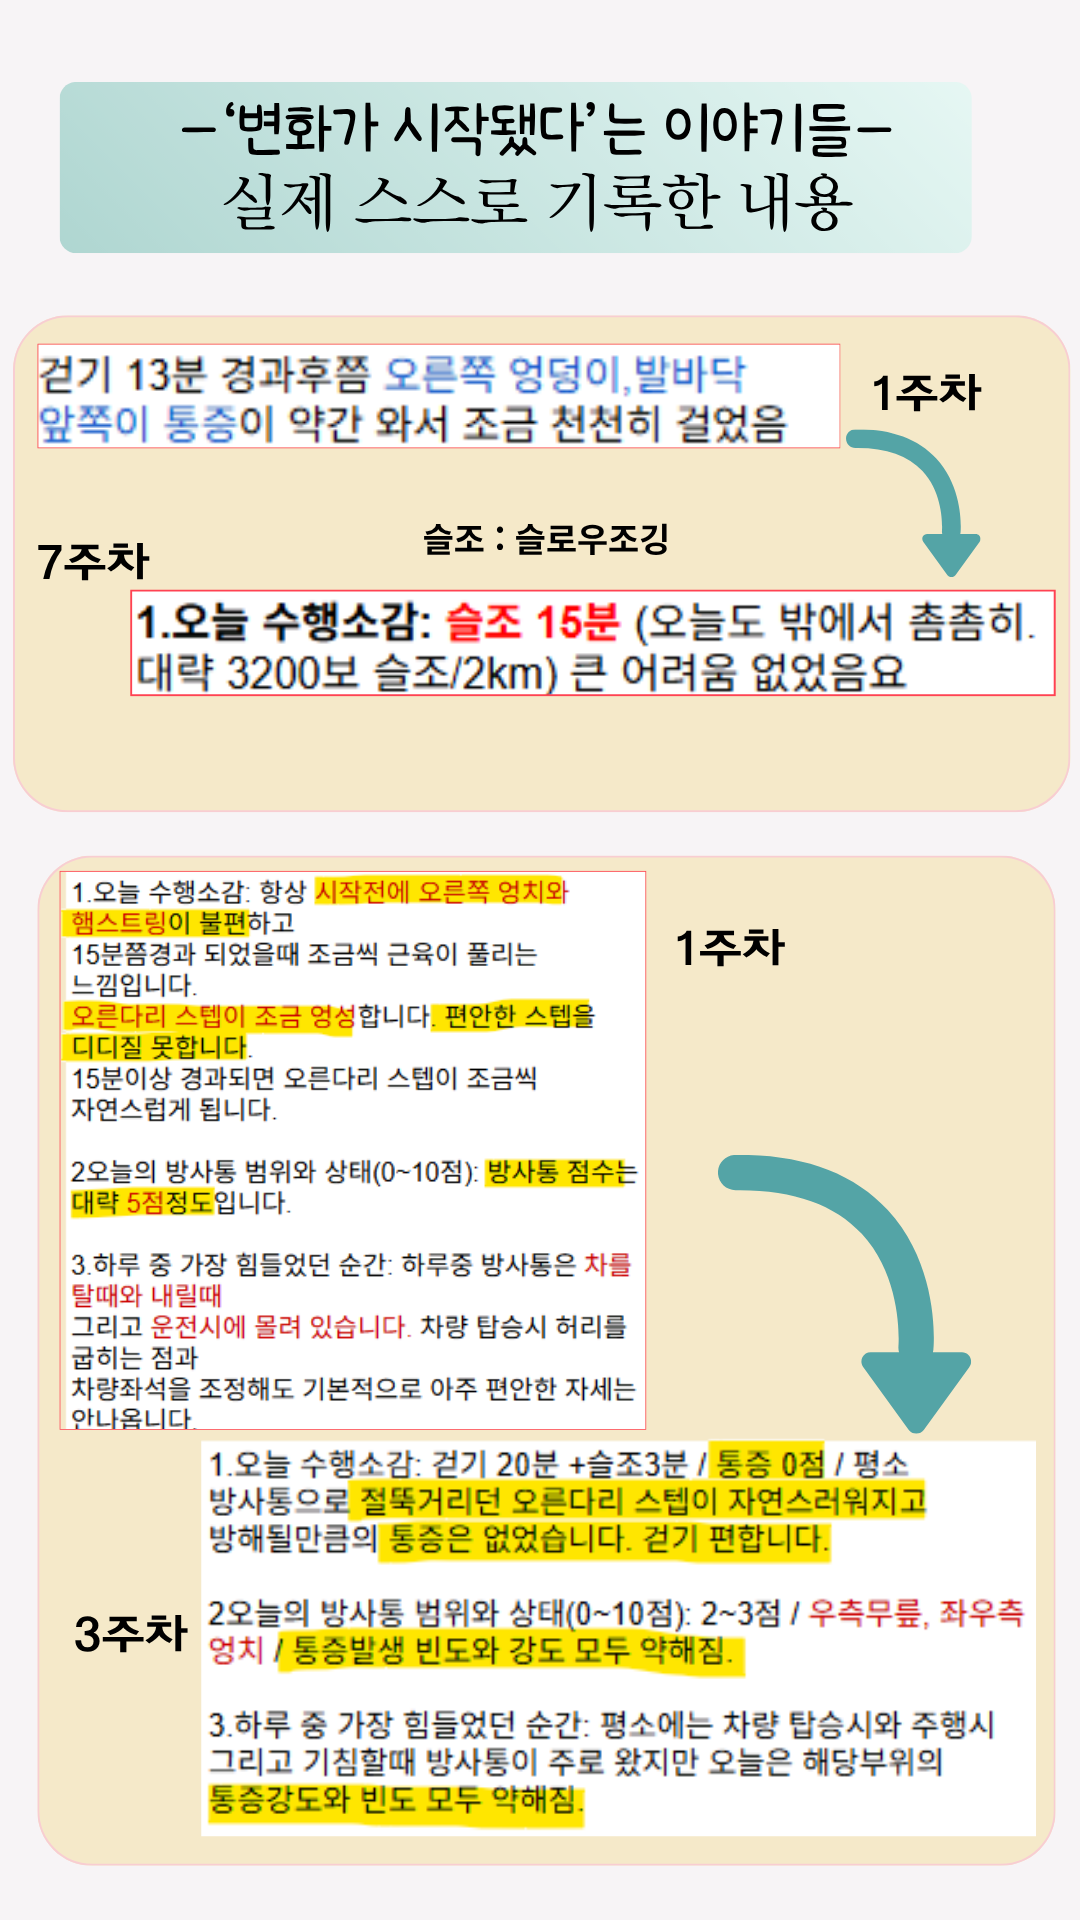
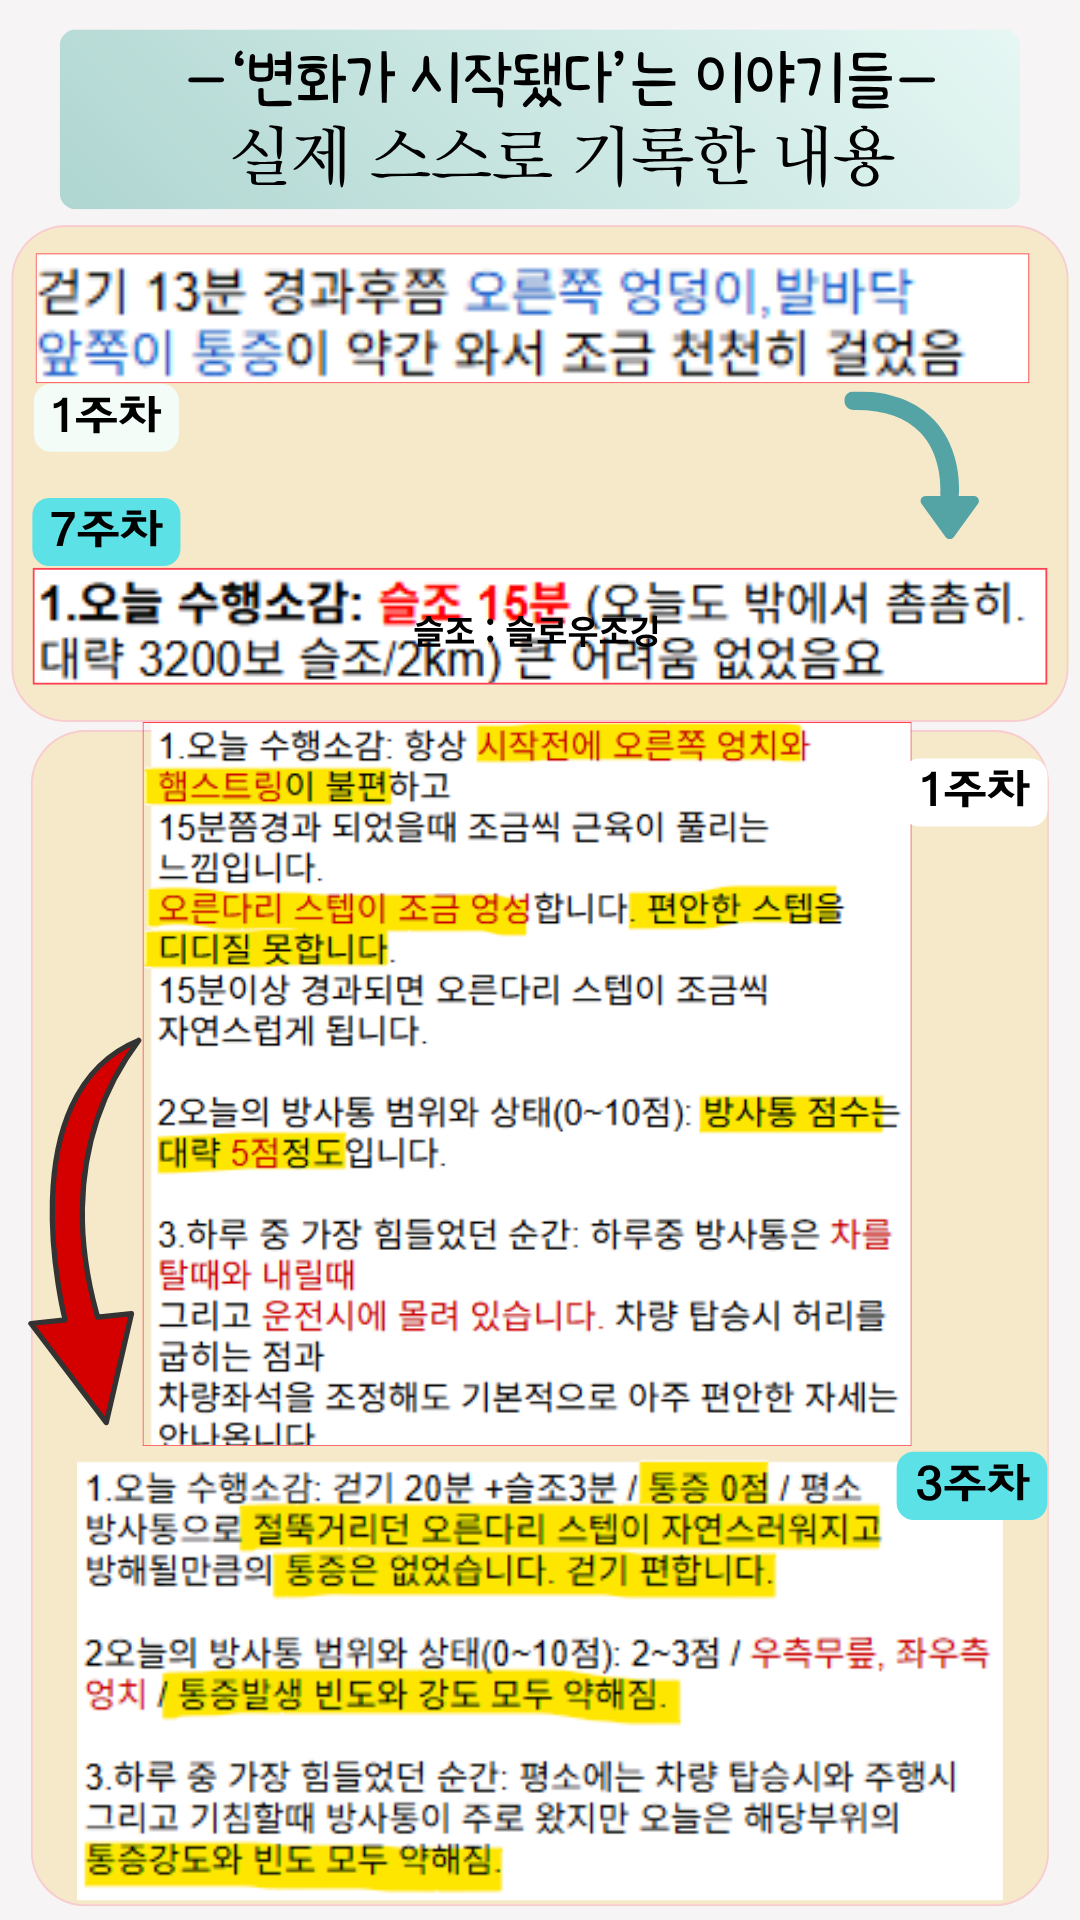
랜딩: 비포애프터 이미지 교체 + 후기 이미지 추가

diff --git a/index.html b/index.html
@@ -861,6 +861,10 @@
       <img src="./img/img2.png" alt="실제 기록 변화">
     </div>
 
+    <div class="img-frame reveal" style="margin-bottom:20px;">
+      <img src="./img/img12.png" alt="참여자 기록 추가">
+    </div>
+
     <!-- 강가을 비포애프터 -->
     <div class="ba-block reveal">
       <div class="ba-period-label">4/4 → 5/19 · 약 6주간의 변화</div>